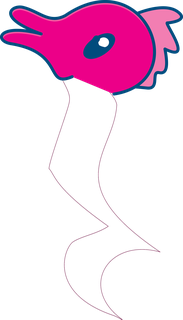
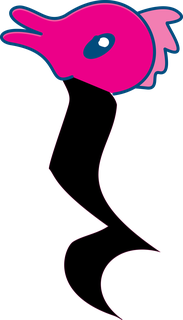
auto-commit for 3af2b953-bfee-4685-8c30-092e0cf255be

Changed region(s): [[0.2459, 0.2188, 0.847, 1.0]]

diff --git a/frontend/src/pages/SongStudioPage.js b/frontend/src/pages/SongStudioPage.js
@@ -30,13 +30,13 @@ function ColoredKey({ keyDef, scaleHighlighted, isTonic, onTap, playingNow }) {
     <motion.button
       data-testid={`piano-key-${keyDef.id}`}
       onClick={() => onTap(keyDef)}
-      className="relative flex flex-col items-center justify-end rounded-b-xl border-3 select-none"
+      className="relative flex flex-col items-center justify-end rounded-b-xl border-2 md:border-3 select-none"
       style={{
-        width: 'clamp(44px, 8vw, 64px)',
-        height: 'clamp(120px, 22vw, 170px)',
+        width: 'clamp(34px, 7.5vw, 64px)',
+        height: 'clamp(78px, 16vw, 170px)',
         backgroundColor: dim ? 'rgba(255,255,255,0.55)' : keyDef.color,
         borderColor: 'var(--jma-dark)',
-        boxShadow: '0 4px 0 0 var(--jma-dark)',
+        boxShadow: '0 3px 0 0 var(--jma-dark)',
         opacity: dim ? 0.55 : 1,
         filter: playingNow ? 'brightness(1.35)' : 'none',
         transform: playingNow ? 'translateY(3px)' : 'translateY(0)',
@@ -47,17 +47,17 @@ function ColoredKey({ keyDef, scaleHighlighted, isTonic, onTap, playingNow }) {
       {/* Tonic indicator (small "home" dot) */}
       {isTonic && (
         <div
-          className="absolute top-1 right-1 w-3 h-3 rounded-full"
+          className="absolute top-0.5 right-0.5 md:top-1 md:right-1 w-2 h-2 md:w-3 md:h-3 rounded-full"
           style={{ backgroundColor: 'var(--jma-dark)', border: '1.5px solid white' }}
           title="Home note"
         />
       )}
       {/* Octave indicator at the top */}
-      <div className="absolute top-1.5 left-1.5 text-[9px] font-black opacity-50" style={{ color: 'var(--jma-dark)' }}>
+      <div className="absolute top-1 left-1 md:top-1.5 md:left-1.5 text-[8px] md:text-[9px] font-black opacity-50" style={{ color: 'var(--jma-dark)' }}>
         {keyDef.octave}
       </div>
       <span
-        className="mb-2 text-xs md:text-sm font-black font-display leading-none"
+        className="mb-1 md:mb-2 text-[10px] md:text-sm font-black font-display leading-none"
         style={{ color: 'var(--jma-dark)', textShadow: '1px 1px 0 rgba(255,255,255,0.6)' }}
       >
         {keyDef.solfege}
@@ -288,12 +288,12 @@ export default function SongStudioPage() {
       <GameHeader title="Charlie's Song Studio" showHomeButton={true} />
       <FullscreenButton />
 
-      <main className="relative z-10 flex-1 flex flex-col items-center pt-14 md:pt-20 pb-6 px-3 max-w-4xl mx-auto w-full">
+      <main className="relative z-10 flex-1 flex flex-col items-center pt-14 md:pt-20 pb-3 md:pb-6 px-2 md:px-3 max-w-4xl mx-auto w-full">
 
         {/* Unified frosted "studio console" — calms the busy bg by grouping
             all the controls inside one cohesive surface */}
         <div
-          className="w-full rounded-3xl border-3 p-3 md:p-4"
+          className="w-full rounded-2xl md:rounded-3xl border-3 p-2 md:p-4"
           style={{
             backgroundColor: 'rgba(255, 252, 247, 0.86)',
             backdropFilter: 'blur(14px)',
@@ -304,61 +304,61 @@ export default function SongStudioPage() {
         >
 
         {/* MOOD PICKER */}
-        <div className="w-full mb-3">
-          <div className="text-center text-xs uppercase font-black opacity-60 mb-1" style={{ color: 'var(--jma-dark)' }}>
+        <div className="w-full mb-2 md:mb-3">
+          <div className="hidden md:block text-center text-xs uppercase font-black opacity-60 mb-1" style={{ color: 'var(--jma-dark)' }}>
             Pick a mood
           </div>
-          <div className="grid grid-cols-3 gap-2">
+          <div className="grid grid-cols-3 gap-1.5 md:gap-2">
             {Object.values(MOODS).map((m) => (
               <button
                 key={m.id}
                 data-testid={`mood-${m.id}`}
                 onClick={() => { setMoodId(m.id); stopPlayback(); }}
-                className="rounded-2xl border-3 p-2 text-center"
+                className="rounded-xl md:rounded-2xl border-2 md:border-3 px-1.5 py-1 md:p-2 text-center flex items-center justify-center gap-1.5 md:flex-col md:gap-0"
                 style={{
                   borderColor: 'var(--jma-dark)',
                   backgroundColor: moodId === m.id ? m.color : 'white',
                   color: 'var(--jma-dark)',
-                  boxShadow: moodId === m.id ? '0 5px 0 0 var(--jma-dark)' : '0 3px 0 0 var(--jma-dark)',
-                  transform: moodId === m.id ? 'translateY(-2px)' : 'translateY(0)',
+                  boxShadow: moodId === m.id ? '0 4px 0 0 var(--jma-dark)' : '0 2px 0 0 var(--jma-dark)',
+                  transform: moodId === m.id ? 'translateY(-1px)' : 'translateY(0)',
                   transition: 'transform 0.12s, background-color 0.2s, box-shadow 0.12s',
                 }}
               >
-                <div className="text-2xl md:text-3xl">{m.emoji}</div>
+                <div className="text-xl md:text-3xl leading-none">{m.emoji}</div>
                 <div className="text-xs md:text-sm font-black font-display leading-tight">{m.name}</div>
-                <div className="text-[10px] opacity-60 leading-tight mt-0.5">{m.description}</div>
+                <div className="hidden md:block text-[10px] opacity-60 leading-tight mt-0.5">{m.description}</div>
               </button>
             ))}
           </div>
         </div>
 
         {/* COMPOSITION GRID + CHARLIE */}
-        <div className="w-full flex items-center gap-3 mb-3">
+        <div className="w-full flex items-center gap-2 md:gap-3 mb-2 md:mb-3">
           <motion.img
             src={mood.charlie}
             alt="Charlie"
             draggable={false}
-            className="object-contain pointer-events-none select-none flex-shrink-0"
+            className="hidden sm:block object-contain pointer-events-none select-none flex-shrink-0"
             style={{ width: 'clamp(60px, 11vw, 110px)', filter: 'drop-shadow(0 6px 6px rgba(0,0,0,0.35))' }}
             animate={isPlaying ? { y: [0, -8, 0], rotate: [-3, 3, -3] } : { y: [0, -4, 0] }}
             transition={{ repeat: Infinity, duration: isPlaying ? 0.6 : 2.4, ease: 'easeInOut' }}
           />
-          <div className="flex-1">
-            <div className="flex items-center justify-between mb-1">
-              <div className="text-[10px] uppercase font-black opacity-60" style={{ color: 'var(--jma-dark)' }}>
+          <div className="flex-1 min-w-0">
+            <div className="flex items-center justify-between gap-2 mb-0.5 md:mb-1">
+              <div className="text-[9px] md:text-[10px] uppercase font-black opacity-60 truncate" style={{ color: 'var(--jma-dark)' }}>
                 {noteCount} {noteCount === 1 ? 'note' : 'notes'}
                 {restCount > 0 && ` + ${restCount} ${restCount === 1 ? 'rest' : 'rests'}`}
                 {' · '}{mood.bpm} BPM · plays 2×
               </div>
-              <div className="flex items-center gap-1 text-[10px] opacity-70" style={{ color: 'var(--jma-dark)' }}>
-                <span className="font-black uppercase">Chords:</span>
+              <div className="flex items-center gap-1 text-[9px] md:text-[10px] opacity-70 flex-shrink-0" style={{ color: 'var(--jma-dark)' }}>
+                <span className="font-black uppercase hidden sm:inline">Chords:</span>
                 <span className="font-black">
                   {mood.chordProgression.map((c) => c.label).join(' · ')}
                 </span>
               </div>
             </div>
             <div
-              className="text-[10px] md:text-xs text-center mb-1.5 font-bold rounded-md px-2 py-1"
+              className="text-[9px] md:text-xs text-center mb-1 md:mb-1.5 font-bold rounded-md px-2 py-0.5 md:py-1"
               style={{
                 color: 'var(--jma-dark)',
                 backgroundColor: `${mood.color}33`,
@@ -366,31 +366,31 @@ export default function SongStudioPage() {
               }}
               data-testid="song-studio-rests-tip"
             >
-              💡 Tip: Leave a beat empty, or tap the 🐠 seahorse for a rest!
+              💡 Leave a beat empty, or tap the 🐠 for a rest!
             </div>
             <div
-              className="rounded-2xl border-3 p-2"
+              className="rounded-xl md:rounded-2xl border-2 md:border-3 p-1.5 md:p-2"
               style={{
                 borderColor: 'var(--jma-dark)',
                 backgroundColor: 'rgba(255,255,255,0.85)',
-                boxShadow: '0 4px 0 0 var(--jma-dark)',
+                boxShadow: '0 3px 0 0 var(--jma-dark)',
               }}
             >
               {/* 4 measure rows, each with a chord label + 4 slots */}
               {[0, 1, 2, 3].map((measureIdx) => {
                 const chord = mood.chordProgression[measureIdx];
                 return (
-                  <div key={measureIdx} className="flex items-center gap-1.5 md:gap-2 mb-1 last:mb-0">
+                  <div key={measureIdx} className="flex items-center gap-1 md:gap-2 mb-1 last:mb-0">
                     <div
-                      className="flex-shrink-0 w-9 md:w-12 rounded-md text-center py-1 border-2"
+                      className="flex-shrink-0 w-8 md:w-12 rounded-md text-center py-0.5 md:py-1 border-2"
                       style={{
                         borderColor: 'var(--jma-dark)',
                         backgroundColor: mood.accent,
                         color: 'white',
                       }}
                     >
-                      <div className="text-[9px] uppercase font-black opacity-80 leading-none">M{measureIdx + 1}</div>
-                      <div className="text-xs md:text-sm font-black font-display leading-tight">{chord.label}</div>
+                      <div className="text-[8px] md:text-[9px] uppercase font-black opacity-80 leading-none">M{measureIdx + 1}</div>
+                      <div className="text-[11px] md:text-sm font-black font-display leading-tight">{chord.label}</div>
                     </div>
                     <div className="grid gap-1.5 md:gap-2 flex-1" style={{ gridTemplateColumns: `repeat(${SLOTS_PER_ROW}, minmax(0, 1fr))` }}>
                       {[0, 1, 2, 3].map((beatIdx) => {
@@ -449,10 +449,10 @@ export default function SongStudioPage() {
 
         {/* PIANO KEYBOARD + REST BUTTON */}
         <div
-          className="w-full overflow-x-auto pb-3"
+          className="w-full overflow-x-auto pb-1.5 md:pb-3"
           style={{ WebkitOverflowScrolling: 'touch' }}
         >
-          <div className="flex justify-center items-end gap-1 md:gap-1.5 px-2 min-w-max">
+          <div className="flex justify-center items-end gap-1 md:gap-1.5 px-1 md:px-2 min-w-max">
             {PIANO_KEYS.map((k) => {
               const inScale = mood.scaleNotes.includes(k.pitch);
               const isTonic = k.pitch === mood.tonic;
@@ -472,13 +472,13 @@ export default function SongStudioPage() {
               data-testid="rest-button"
               onClick={handleRestTap}
               aria-label="Add a rest"
-              className="relative flex flex-col items-center justify-center rounded-b-xl border-3 select-none ml-2 md:ml-3"
+              className="relative flex flex-col items-center justify-center rounded-b-xl border-2 md:border-3 select-none ml-1.5 md:ml-3"
               style={{
-                width: 'clamp(44px, 8vw, 64px)',
-                height: 'clamp(120px, 22vw, 170px)',
+                width: 'clamp(34px, 7.5vw, 64px)',
+                height: 'clamp(78px, 16vw, 170px)',
                 backgroundColor: 'rgba(255, 245, 250, 1)',
                 borderColor: 'var(--jma-dark)',
-                boxShadow: '0 4px 0 0 var(--jma-dark)',
+                boxShadow: '0 3px 0 0 var(--jma-dark)',
               }}
               whileTap={{ y: 4, boxShadow: '0 1px 0 0 var(--jma-dark)' }}
             >
@@ -489,7 +489,7 @@ export default function SongStudioPage() {
                 className="w-full h-[78%] object-contain pointer-events-none select-none px-1"
               />
               <span
-                className="mb-1.5 text-[10px] md:text-xs font-black font-display leading-none"
+                className="mb-1 md:mb-1.5 text-[9px] md:text-xs font-black font-display leading-none"
                 style={{ color: 'var(--jma-dark)', textShadow: '1px 1px 0 rgba(255,255,255,0.6)' }}
               >
                 Rest
@@ -499,12 +499,12 @@ export default function SongStudioPage() {
         </div>
 
         {/* ACCOMPANIMENT TOGGLES */}
-        <div className="flex items-center justify-center gap-2 mt-1 mb-2 flex-wrap">
+        <div className="flex items-center justify-center gap-2 mt-0.5 md:mt-1 mb-1.5 md:mb-2 flex-wrap">
           <button
             data-testid="toggle-chords"
             onClick={() => setChordsOn((v) => !v)}
             aria-pressed={chordsOn}
-            className="rounded-full border-2 px-3 py-1.5 flex items-center gap-1.5 text-xs md:text-sm font-black font-display"
+            className="rounded-full border-2 px-2.5 md:px-3 py-1 md:py-1.5 flex items-center gap-1 md:gap-1.5 text-[11px] md:text-sm font-black font-display"
             style={{
               borderColor: 'var(--jma-dark)',
               backgroundColor: chordsOn ? mood.accent : 'white',
@@ -514,7 +514,7 @@ export default function SongStudioPage() {
               transform: chordsOn ? 'translateY(-1px)' : 'translateY(0)',
             }}
           >
-            <Piano className="w-4 h-4" />
+            <Piano className="w-3.5 h-3.5 md:w-4 md:h-4" />
             Chords {chordsOn ? 'ON' : 'OFF'}
           </button>
           <button
@@ -522,7 +522,7 @@ export default function SongStudioPage() {
             onClick={() => setDrumsOn((v) => !v)}
             aria-pressed={drumsOn}
             disabled={!mood.drumLoop}
-            className="rounded-full border-2 px-3 py-1.5 flex items-center gap-1.5 text-xs md:text-sm font-black font-display disabled:opacity-40"
+            className="rounded-full border-2 px-2.5 md:px-3 py-1 md:py-1.5 flex items-center gap-1 md:gap-1.5 text-[11px] md:text-sm font-black font-display disabled:opacity-40"
             style={{
               borderColor: 'var(--jma-dark)',
               backgroundColor: drumsOn && mood.drumLoop ? mood.accent : 'white',
@@ -534,18 +534,18 @@ export default function SongStudioPage() {
             }}
             title={mood.drumLoop ? '' : 'No drum loop for this mood'}
           >
-            <Drum className="w-4 h-4" />
+            <Drum className="w-3.5 h-3.5 md:w-4 md:h-4" />
             Drums {mood.drumLoop ? (drumsOn ? 'ON' : 'OFF') : '—'}
           </button>
         </div>
 
         {/* CONTROLS */}
-        <div className="flex flex-wrap items-center justify-center gap-2 mt-2">
+        <div className="flex flex-wrap items-center justify-center gap-1.5 md:gap-2 mt-1 md:mt-2">
           <button
             data-testid="song-play-btn"
             onClick={isPlaying ? stopPlayback : playSong}
             disabled={filledCount === 0}
-            className="chunky-btn px-4 py-2 flex items-center gap-2"
+            className="chunky-btn px-3 md:px-4 py-1.5 md:py-2 text-xs md:text-base flex items-center gap-1.5 md:gap-2"
             style={{
               backgroundColor: filledCount === 0 ? '#9CA3AF' : '#34A853',
               color: 'white',
@@ -553,13 +553,13 @@ export default function SongStudioPage() {
               cursor: filledCount === 0 ? 'not-allowed' : 'pointer',
             }}
           >
-            <Play className="w-4 h-4" /> {isPlaying ? 'Stop' : 'Play My Song'}
+            <Play className="w-3.5 h-3.5 md:w-4 md:h-4" /> {isPlaying ? 'Stop' : 'Play My Song'}
           </button>
           <button
             data-testid="song-save-btn"
             onClick={handleSave}
             disabled={filledCount === 0}
-            className="chunky-btn px-4 py-2 flex items-center gap-2"
+            className="chunky-btn px-3 md:px-4 py-1.5 md:py-2 text-xs md:text-base flex items-center gap-1.5 md:gap-2"
             style={{
               backgroundColor: filledCount === 0 ? '#9CA3AF' : '#FFCC00',
               color: 'var(--jma-dark)',
@@ -567,23 +567,23 @@ export default function SongStudioPage() {
               cursor: filledCount === 0 ? 'not-allowed' : 'pointer',
             }}
           >
-            <Save className="w-4 h-4" /> Save
+            <Save className="w-3.5 h-3.5 md:w-4 md:h-4" /> Save
           </button>
           <button
             data-testid="song-clear-btn"
             onClick={clearAll}
-            className="chunky-btn bg-white text-[var(--jma-dark)] px-3 py-2 flex items-center gap-1.5 text-sm border-2"
+            className="chunky-btn bg-white text-[var(--jma-dark)] px-2.5 md:px-3 py-1.5 md:py-2 flex items-center gap-1 md:gap-1.5 text-[11px] md:text-sm border-2"
             style={{ borderColor: 'var(--jma-dark)' }}
           >
-            <Trash2 className="w-4 h-4" /> Clear
+            <Trash2 className="w-3.5 h-3.5 md:w-4 md:h-4" /> Clear
           </button>
           <button
             data-testid="song-gallery-btn"
             onClick={() => setView('gallery')}
-            className="chunky-btn bg-white text-[var(--jma-dark)] px-3 py-2 flex items-center gap-1.5 text-sm border-2"
+            className="chunky-btn bg-white text-[var(--jma-dark)] px-2.5 md:px-3 py-1.5 md:py-2 flex items-center gap-1 md:gap-1.5 text-[11px] md:text-sm border-2"
             style={{ borderColor: 'var(--jma-dark)' }}
           >
-            <BookOpen className="w-4 h-4" /> My Songs ({songs.length})
+            <BookOpen className="w-3.5 h-3.5 md:w-4 md:h-4" /> Songs ({songs.length})
           </button>
         </div>
 

diff --git a/memory/CHANGELOG.md b/memory/CHANGELOG.md
@@ -1,5 +1,19 @@
 # Changelog
 
+## Feb 16, 2026 — Song Studio mobile pass + seahorse fix
+- **Seahorse rest — restored the black quarter-rest body**: my earlier processing wiped out near-black pixels everywhere, which accidentally erased the seahorse's own black body (the part that forms the quarter-rest shape). The source PNG was already correctly transparent at the corners — no black-stripping needed. Re-exported as a straight trim + resize so the black quarter-rest tail is now visible inside slots and the Rest button.
+- **Song Studio fits a phone screen with zero scroll** (390×800 → document height = 800px exact, no overflow):
+  - Mood picker becomes a horizontal **emoji + name pill** on mobile (no descriptions, smaller emoji, gap-1.5).
+  - Charlie hidden on `<sm` widths so the grid can stretch full-width.
+  - Meta line gets `text-[9px]` + `truncate`; "Chords:" label collapses on the smallest widths.
+  - Tip line shortened ("💡 Leave a beat empty, or tap the 🐠 for a rest!"), `py-0.5` on mobile.
+  - Grid card padding `p-1.5 md:p-2`; chord-label cells `w-8 md:w-12`.
+  - **Piano keys**: width `clamp(34px, 7.5vw, 64px)`, height `clamp(78px, 16vw, 170px)` (was 120 min) — keyboard now ~40% shorter on mobile.
+  - Rest button matched to the same dimensions.
+  - Toggles + control buttons: smaller padding, smaller icons (`w-3.5 h-3.5 md:w-4 md:h-4`), smaller text (`text-[11px] md:text-sm`), tighter gaps.
+  - Console wrap: `p-2 md:p-4` (was `p-3 md:p-4`), shorter "My Songs" → "Songs" label on the gallery button.
+- Desktop layout unchanged — all the `md:` modifiers preserve the full-size experience.
+
 ## Feb 16, 2026 — Detective: buzz-in during the suspect playback
 - Kids can now **tap the currently-lit chip during the SUSPECT/corrupted playback** to lock in their guess the moment they hear something off. Other chips stay locked until the playback finishes (so it's "buzz on the wrong note" — not random clicks).
 - Tapping the lit chip cancels the remaining playback and snaps straight to the reveal phase.
